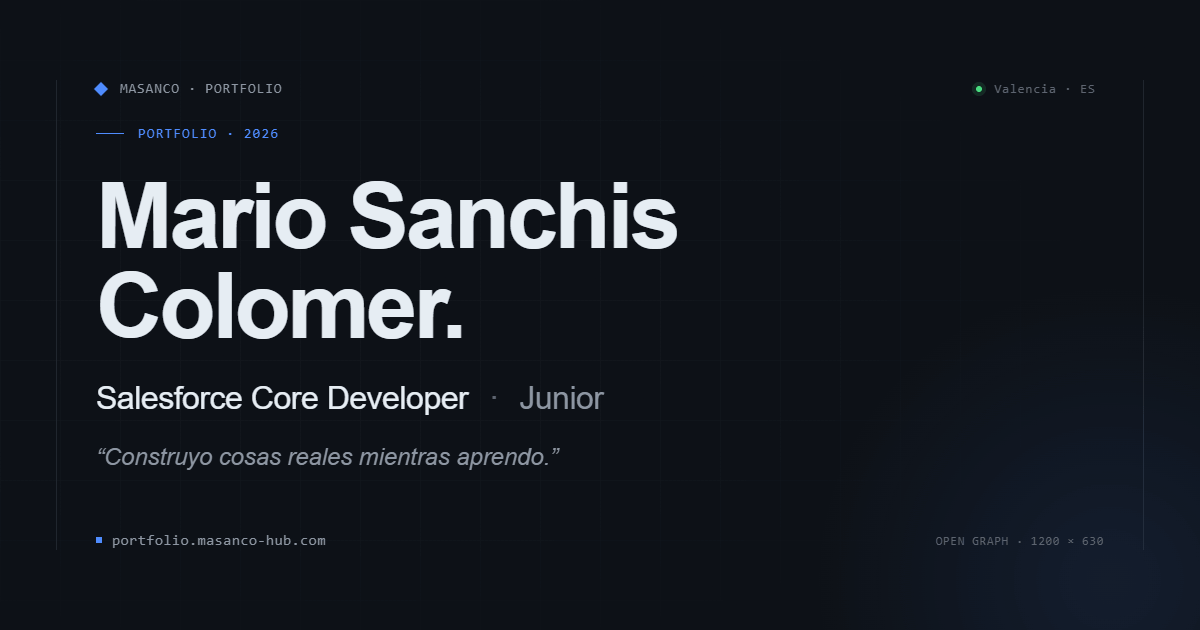
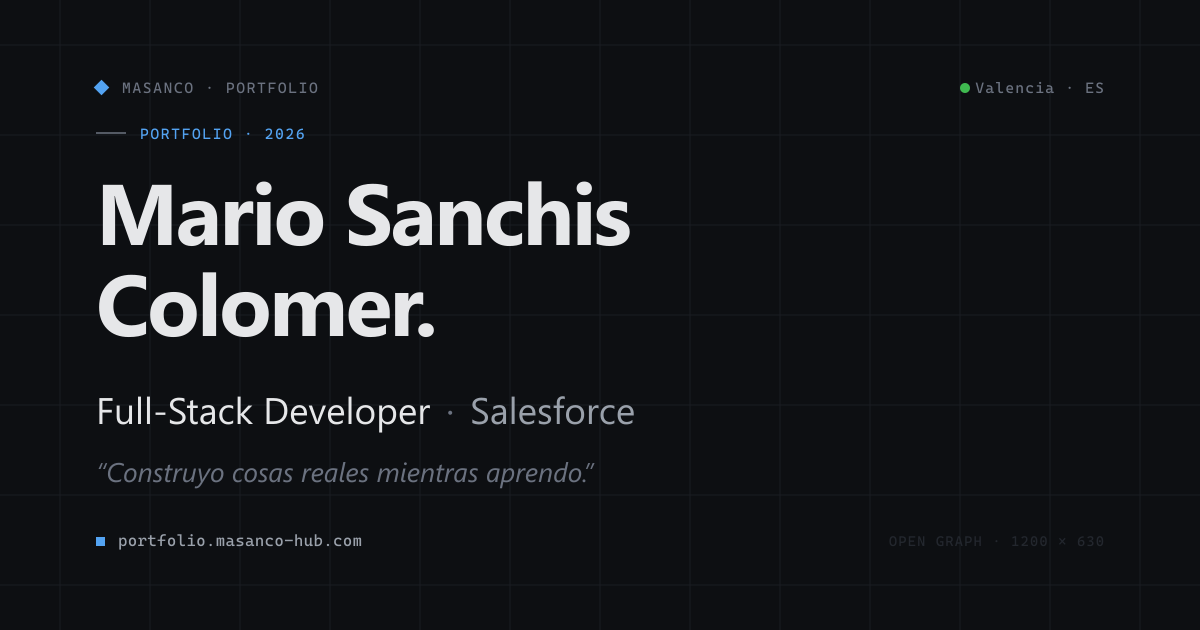
Regenerar og-image con el rol nuevo + generador reproducible
La preview social tenia "Salesforce Core Developer . Junior" rasterizado
dentro del PNG, contradiciendo los meta tags ya actualizados.

- og-src/generate-og.mjs: compone el SVG 1200x630 y lo rasteriza con sharp,
  leyendo hero.title y hero.tagline de src/i18n/es.ts para que el copy no
  vuelva a desincronizarse. Sin navegador headless.
- Render a 2x + downscale lanczos: librsvg maqueta a 72dpi y sin eso salia
  1600x840, incoherente con og:image:width/height.
- npm run og
- og-src/README.md con el flujo, el purge de Cloudflare y la nota de fuentes

diff --git a/og-src/README.md b/og-src/README.md
@@ -1,0 +1,69 @@
+# og-src — imagen Open Graph
+
+Fuente de `public/og-image.png` (1200×630), la preview que se ve al compartir el
+portfolio en LinkedIn, WhatsApp, Slack o Twitter.
+
+```bash
+npm run og
+```
+
+## Por qué existe
+
+El rol y el tagline van **rasterizados dentro del PNG**. Cuando el copy del hero
+cambió (de "Salesforce Core Developer · Junior" a "Full-Stack Developer ·
+Salesforce") los meta tags se actualizaron solos pero la imagen se quedó
+desincronizada: el sitio decía una cosa y la preview de LinkedIn otra.
+
+Por eso el script **lee `hero.title` y `hero.tagline` desde `src/i18n/es.ts`** en vez
+de tener el texto duplicado. Flujo al tocar el copy del hero:
+
+```bash
+# 1. editas src/i18n/es.ts
+npm run og          # 2. regenera public/og-image.png
+git add public/og-image.png og-src/og-image.svg
+```
+
+El PNG **se commitea** (es un asset servido por nginx, no se genera en el VPS).
+
+## Cómo funciona
+
+- `generate-og.mjs` compone un SVG de 1200×630 y lo rasteriza con **sharp**.
+  Sin navegador headless.
+- Se renderiza a 2× (density 144) y se reescala a 1200×630 con lanczos — librsvg
+  maqueta a 72 dpi, así que sin eso el PNG saldría a 1600×840 y no coincidiría con
+  los `og:image:width` / `og:image:height` declarados en `BaseLayout.astro`.
+- `og-image.svg` se escribe al lado como artefacto revisable (el diff en git muestra
+  el cambio de texto; el del PNG no).
+- Los colores están copiados del tema oscuro de `src/styles/global.css`. El accent
+  `#53a3f2` es `oklch(0.7 0.14 250)` resuelto a sRGB.
+
+## Dependencias y fuentes
+
+`sharp` no está en `package.json`: llega con Astro (`astro:assets`) y el script lo
+usa desde ahí. Si algún día falla con *Cannot find module 'sharp'*:
+
+```bash
+npm i -D sharp
+```
+
+Las tipografías del sitio (Inter / JetBrains Mono) vienen de Google Fonts y **no
+están instaladas en el sistema**, así que el SVG declara un stack con fallback:
+Inter → Segoe UI → Arial, y JetBrains Mono → Cascadia Mono → Consolas. En Windows
+cae a Segoe UI / Cascadia Mono, visualmente muy cercanas. Si instalas Inter y
+JetBrains Mono como fuentes del sistema, el render mejora sin tocar el script.
+
+Corolario: **genera el PNG en local, no en el VPS** (Ubuntu no tiene esas fuentes y
+el resultado saldría distinto).
+
+## Después de actualizar la imagen
+
+Cloudflare cachea el PNG. Tras desplegar hay que purgar esa URL en el panel
+(Caching → Configuration → Purge by URL) o LinkedIn seguirá mostrando la vieja.
+LinkedIn además cachea por su cuenta: revalidar en
+<https://www.linkedin.com/post-inspector/>.
+
+## Pendiente
+
+- Solo hay versión ES. `/en/` usa esta misma imagen, con el tagline en español.
+  Para una EN: añadir un segundo pase que lea `src/i18n/en.ts` → `og-image-en.png`
+  y cablearlo en `BaseLayout.astro` (`ogImage` según `lang`).
